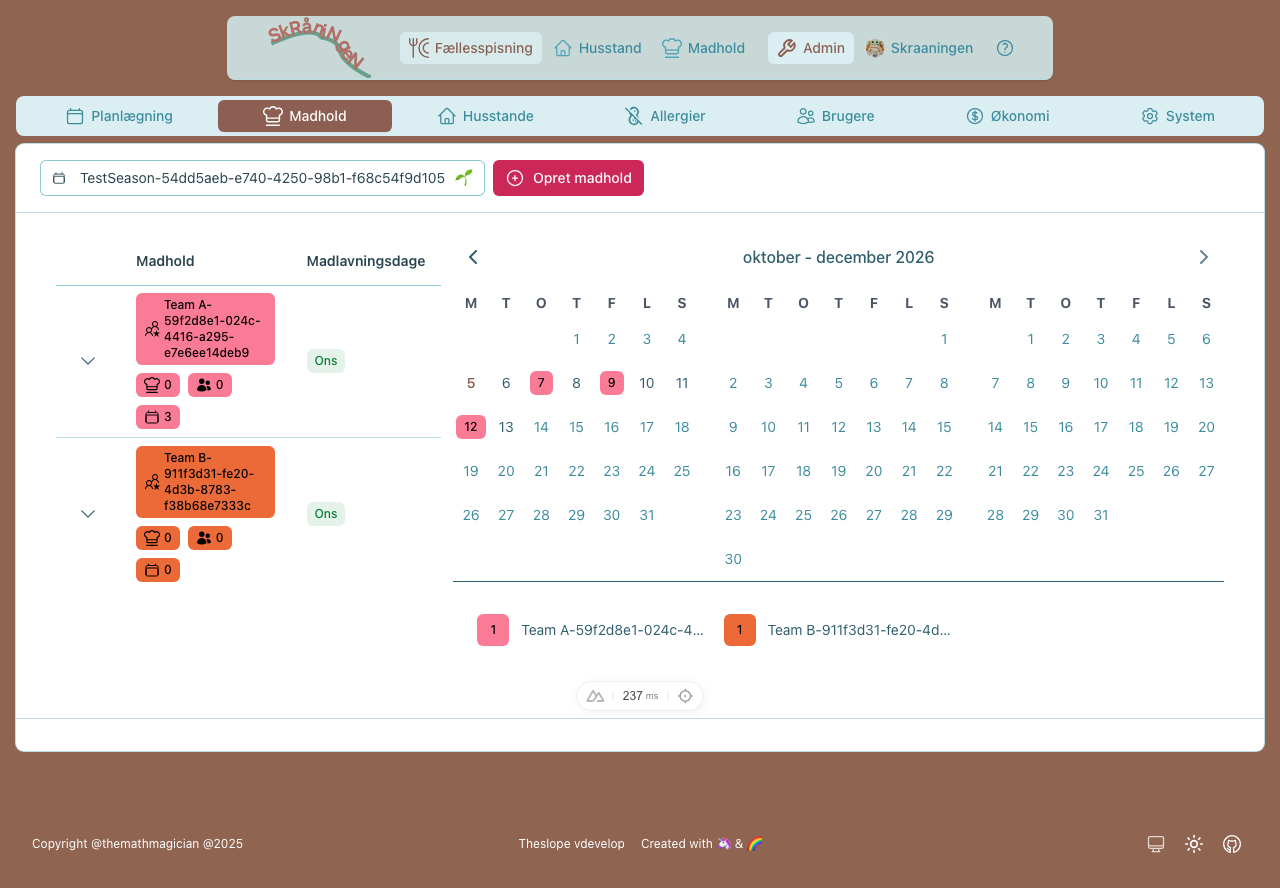
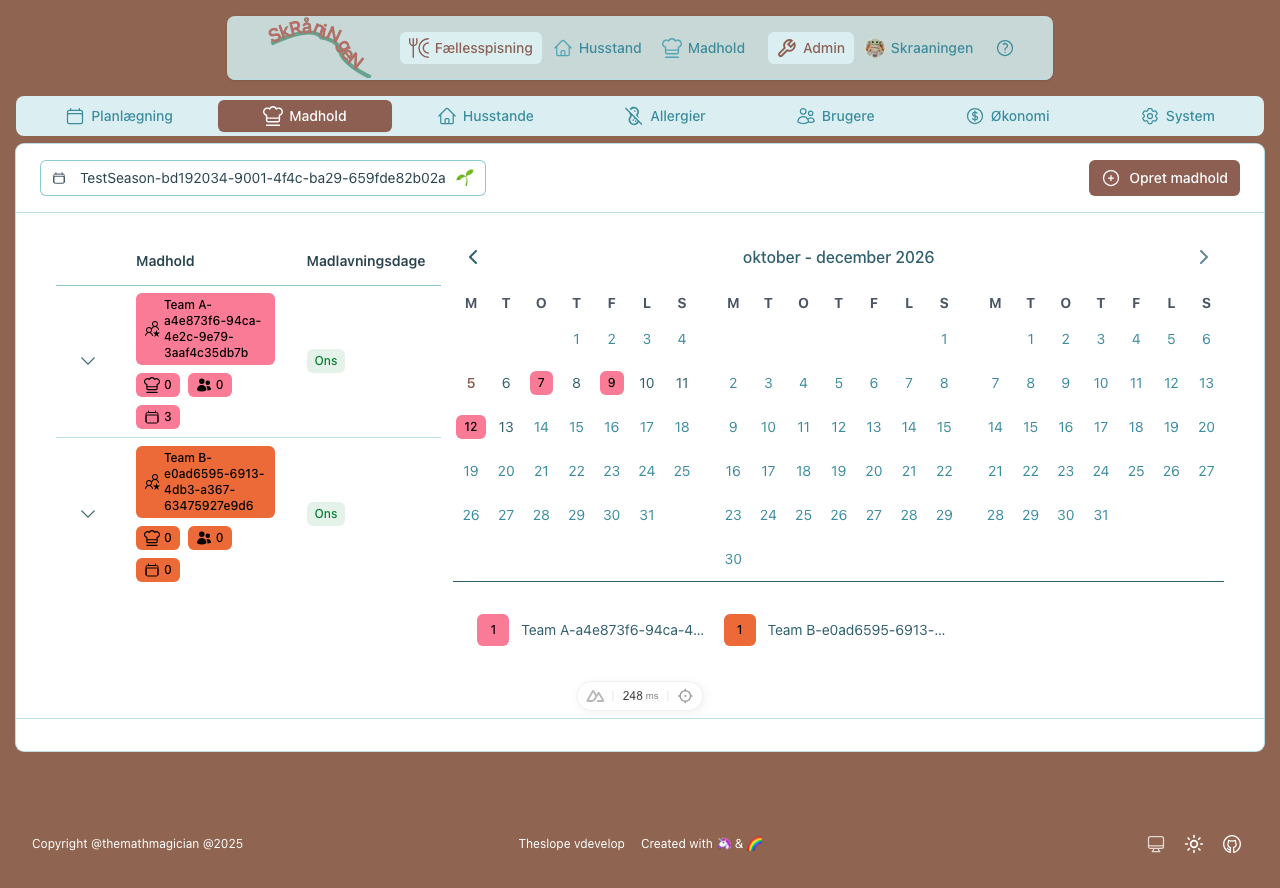
redirect on login handled in plugin

diff --git a/tests/component/composables/useApiHandler.nuxt.spec.ts b/tests/component/composables/useApiHandler.nuxt.spec.ts
@@ -1,7 +1,7 @@
 import { describe, it, expect, vi, beforeEach, beforeAll } from 'vitest'
 import { mockNuxtImport } from '@nuxt/test-utils/runtime'
 import { ref } from 'vue'
-import { useApiHandler } from '~/composables/useApiHandler'
+import { useApiHandler, resolveUncaughtApiError } from '~/composables/useApiHandler'
 
 // Mock the useToast composable (mockNuxtImport replaces the one auto-import; a #imports module mock breaks the runtime boot)
 mockNuxtImport('useToast', () => () => ({
@@ -43,5 +43,30 @@ describe('useApiHandler', () => {
 
         expect(state.value).toBe('error')
         expect(mockAction).toHaveBeenCalledTimes(1)
+    })
+
+    describe('resolveUncaughtApiError (the error floor of plugins/apiErrors.client.ts)', () => {
+        const page = {path: '/admin/teams', fullPath: '/admin/teams?mode=create&team=5'}
+        const actions = {login: vi.fn(), toast: vi.fn()}
+
+        it.each([
+            {error: {statusCode: 401}, route: page, expectedCall: () => expect(actions.login).toHaveBeenCalledWith(page.fullPath), description: 'a dead session re-authenticates with a return path'},
+            {error: {status: 401}, route: page, expectedCall: () => expect(actions.login).toHaveBeenCalledWith(page.fullPath), description: 'FetchError status spelling counts as 401'},
+            {error: {statusCode: 500}, route: page, expectedCall: () => expect(actions.toast).toHaveBeenCalledWith({statusCode: 500}), description: 'any other API error surfaces as the standard toast'}
+        ])('$description', ({error, route, expectedCall}) => {
+            const handler = resolveUncaughtApiError(error, route, actions)
+            expect(handler).toBeTypeOf('function')
+            handler!()
+            expectedCall()
+        })
+
+        it.each([
+            {error: {statusCode: 401}, route: {path: '/login', fullPath: '/login'}, description: 'the login page keeps its own 401s'},
+            {error: new Error('not an api error'), route: page, description: 'non-API errors are not this floor\'s to handle'}
+        ])('$description', ({error, route}) => {
+            expect(resolveUncaughtApiError(error, route, actions)).toBeNull()
+            expect(actions.login).not.toHaveBeenCalled()
+            expect(actions.toast).not.toHaveBeenCalled()
+        })
     })
 })

diff --git a/app/stores/plan.ts b/app/stores/plan.ts
@@ -386,28 +386,32 @@ export const usePlanStore = defineStore("Plan", () => {
         const createTeam = async (teamOrTeams: CookingTeamCreate | CookingTeamCreate[]): Promise<CreateTeamsResponse> => {
             const teams = Array.isArray(teamOrTeams) ? teamOrTeams : [teamOrTeams]
 
-            // ADR-009 operation result: teams created + dinner events the assignment touched
-            const response = await $fetch('/api/admin/team', {
-                method: 'PUT',
-                body: teams,
-                headers: {'Content-Type': 'application/json'}
-            })
-            createTeamData.value = CreateTeamsResponseSchema.parse(response)
+            try {
+                // ADR-009 operation result: teams created + dinner events the assignment touched
+                const response = await $fetch('/api/admin/team', {
+                    method: 'PUT',
+                    body: teams,
+                    headers: {'Content-Type': 'application/json'}
+                })
+                createTeamData.value = CreateTeamsResponseSchema.parse(response)
 
-            await executeCreateTeam()
+                await executeCreateTeam()
 
-            if (createTeamError.value) {
-                handleApiError(createTeamError.value, 'createTeam')
-                throw createTeamError.value
+                if (createTeamError.value) {
+                    throw createTeamError.value
+                }
+
+                console.info(`👥 > PLAN_STORE > Created ${createTeamData.value.teams.length} team(s), assigned ${createTeamData.value.eventsAssigned} dinner event(s)`)
+
+                if (selectedSeasonId.value) {
+                    await refreshSelectedSeason()
+                }
+
+                return createTeamData.value
+            } catch (e: unknown) {
+                handleApiError(e, 'createTeam')
+                throw e
             }
-
-            console.info(`👥 > PLAN_STORE > Created ${createTeamData.value.teams.length} team(s), assigned ${createTeamData.value.eventsAssigned} dinner event(s)`)
-
-            if (selectedSeasonId.value) {
-                await refreshSelectedSeason()
-            }
-
-            return createTeamData.value
         }
 
         const updateTeam = async (team: CookingTeamUpdate) => {

diff --git a/app/components/admin/AdminTeams.vue b/app/components/admin/AdminTeams.vue
@@ -306,7 +306,7 @@ interface TableRow {
   original: CookingTeamDisplay
 }
 
-const {ICONS, SIZES, BUTTONS, ALERTS, COLOR, COMPONENTS, getRainbowAccent} = useTheSlopeDesignSystem()
+const {ICONS, SIZES, BUTTONS, ALERTS, COLOR, COMPONENTS, LAYOUTS, getRainbowAccent} = useTheSlopeDesignSystem()
 
 const columns = [
   {
@@ -344,28 +344,27 @@ const columns = [
       class="w-full px-0"
   >
     <template #header>
-      <div class="flex flex-col md:flex-row items-center justify-between w-full gap-4">
-        <div class="w-full md:w-auto flex flex-row items-center gap-2">
-          <SeasonSelector
-              :model-value="selectedSeasonId"
-              :seasons="seasons"
-              :loading="isSeasonsLoading"
-              class="w-full md:w-auto"
-              :disabled="disabledModes.includes(FORM_MODES.CREATE)"
-              @update:model-value="handleSeasonChange"
-          />
-          <UButton
-              v-if="props.canEdit && !isNoSeasons"
-              v-bind="BUTTONS.primaryAction"
-              :color="COLOR.secondary"
-              :icon="ICONS.plusCircle"
-              data-testid="create-team"
-              :disabled="disabledModes.includes(FORM_MODES.CREATE)"
-              @click="onModeChange(FORM_MODES.CREATE)"
-          >
-            Opret madhold
-          </UButton>
-        </div>
+      <div :class="LAYOUTS.cardHeaderRow">
+        <SeasonSelector
+            :model-value="selectedSeasonId"
+            :seasons="seasons"
+            :loading="isSeasonsLoading"
+            class="w-full md:w-auto"
+            :disabled="disabledModes.includes(FORM_MODES.CREATE)"
+            @update:model-value="handleSeasonChange"
+        />
+        <UButton
+            v-if="props.canEdit && !isNoSeasons"
+            v-bind="BUTTONS.primaryAction"
+            :class="LAYOUTS.cardActionButton"
+            :color="COLOR.primary"
+            :icon="ICONS.plusCircle"
+            data-testid="create-team"
+            :disabled="disabledModes.includes(FORM_MODES.CREATE)"
+            @click="onModeChange(FORM_MODES.CREATE)"
+        >
+          Opret madhold
+        </UButton>
       </div>
     </template>
 

diff --git a/tests/e2e/ui/AdminTeams.e2e.spec.ts b/tests/e2e/ui/AdminTeams.e2e.spec.ts
@@ -110,6 +110,25 @@ test.describe('AdminTeams Form UI', () => {
                 expect(teams[1]!.name).toContain('Madhold 2')
                 expect(teams[1]!.name).toContain(season.shortName)
             })
+
+        test('GIVEN an expired session WHEN submitting THEN the user lands on login with a return path',
+            async ({page, browser}) => {
+                const context = await validatedBrowserContext(browser)
+                const season = await SeasonFactory.createSeason(context)
+                createdSeasonIds.push(season.id!)
+
+                await page.goto(`${adminTeamsUrl}?mode=create&season=${season.shortName}`)
+                await expect(page.locator('input#team-count')).toBeVisible({timeout: 10000})
+
+                // WHEN: the session dies before the save
+                await page.context().clearCookies()
+                await page.locator('input#team-count').fill('2')
+                await page.getByTestId('submit-create-teams').click()
+
+                // THEN: the error floor re-authenticates with the page as the return path
+                await expect(page).toHaveURL(/\/login\?redirect=/)
+                expect(decodeURIComponent(page.url())).toContain('/admin/teams')
+            })
     })
 
     test.describe('Edit Mode', () => {

diff --git a/app/composables/useApiHandler.ts b/app/composables/useApiHandler.ts
@@ -5,6 +5,32 @@ const isApiError = (error: unknown): error is ApiError => {
     return 'statusCode' in error || 'status' in error
 }
 
+export type UncaughtApiErrorHandler = () => void
+
+export interface UncaughtApiErrorActions {
+    login: (redirect: string) => void
+    toast: (error: unknown) => void
+}
+
+/**
+ * The application's error floor (plugins/apiErrors.client.ts): picks the handler an uncaught
+ * error gets. A dead session re-authenticates and returns in place (the login page follows
+ * ?redirect, and its own 401s stay put), any other API error surfaces as the standard toast;
+ * an error that is not an API response is not this floor's to handle (null).
+ */
+export const resolveUncaughtApiError = (
+    error: unknown,
+    route: {path: string, fullPath: string},
+    actions: UncaughtApiErrorActions
+): UncaughtApiErrorHandler | null => {
+    if (!isApiError(error)) return null
+    const statusCode = error.statusCode ?? (error as Record<string, unknown>).status
+    if (statusCode === 401) {
+        return route.path === '/login' ? null : () => actions.login(route.fullPath)
+    }
+    return () => actions.toast(error)
+}
+
 export const useApiHandler = () => {
     // Capture toast and route references during setup context
     const toast = useToast()

diff --git a/app/plugins/apiErrors.client.ts b/app/plugins/apiErrors.client.ts
@@ -1,0 +1,28 @@
+import {resolveUncaughtApiError, useApiHandler, type UncaughtApiErrorActions} from '~/composables/useApiHandler'
+
+/**
+ * The application's error floor: no API failure is ever silent. Uncaught rejections and
+ * errors escaping component handlers funnel into resolveUncaughtApiError, which hands back
+ * the handler to run - re-login for a dead session, the standard toast for the rest.
+ * Stores keep their own catch + toast; this floor owns what escapes them.
+ */
+export default defineNuxtPlugin((nuxtApp) => {
+    const actions: UncaughtApiErrorActions = {
+        login: (redirect) => void nuxtApp.runWithContext(() => navigateTo({path: '/login', query: {redirect}})),
+        toast: (error) => void nuxtApp.runWithContext(() => useApiHandler().handleApiError(error, 'uncaught'))
+    }
+
+    const handle = (error: unknown): boolean => {
+        const handler = resolveUncaughtApiError(error, useRouter().currentRoute.value, actions)
+        if (!handler) return false
+        handler()
+        return true
+    }
+
+    window.addEventListener('unhandledrejection', (event) => {
+        if (handle(event.reason)) event.preventDefault()
+    })
+    nuxtApp.hook('vue:error', (error) => {
+        handle(error)
+    })
+})

diff --git a/app/composables/useTheSlopeDesignSystem.ts b/app/composables/useTheSlopeDesignSystem.ts
@@ -451,6 +451,10 @@ export const LAYOUTS = {
     cardActionRow: 'flex flex-col md:flex-row md:flex-wrap md:items-center gap-2',
     cardActionButton: 'w-full md:w-auto justify-center',
 
+    // Card header row: content (selector, title) left, the rare action in the right corner -
+    // the admin pages' shared header shape. Stacked with full-width children on a phone.
+    cardHeaderRow: 'flex flex-col md:flex-row md:items-center md:justify-between gap-2',
+
     // Section content (card body sections)
     sectionContent: 'px-4 md:px-6 py-4 md:py-6 space-y-4',           // Standard section with padding
     sectionContentNoPadX: 'px-0 py-4 md:py-6 space-y-4',             // No horizontal padding (full-bleed)

diff --git a/app/components/admin/AdminPlanning.vue b/app/components/admin/AdminPlanning.vue
@@ -155,7 +155,7 @@ const handleDeactivateSeason = async () => {
       class="w-full px-0"
   >
     <template #header>
-      <div :class="LAYOUTS.cardActionRow">
+      <div :class="LAYOUTS.cardHeaderRow">
         <SeasonSelector
             :model-value="selectedSeasonId"
             :seasons="seasons"

diff --git a/docs/adr-compliance-frontend.md b/docs/adr-compliance-frontend.md
@@ -51,7 +51,7 @@
 
 | Component | Used By Routes | Stores Used | Composables | ADR-001 Types | ADR-010 Domain | Component Tests | E2E Tests | Status |
 |-----------|----------------|-------------|-------------|---------------|----------------|-----------------|-----------|--------|
-| `AdminPlanning.vue` | `/admin/planning` | `usePlanStore()` | `useEntityFormManager()`, `useSeasonValidation()`, `useTheSlopeDesignSystem()` | ✅ | ✅ | ✅ 7 tests | ✅ Full | **✅ COMPLIANT** — Card header is `LAYOUTS.cardActionRow` with `SeasonSelector` + `create-season` (`BUTTONS.primaryAction` + `ICONS.plusCircle`); `AdminPlanningSeason` `@edit` drives `?mode=edit` through `useEntityFormManager` (ADR-006/ADR-008); the save toast reports the `SeasonUpdateResponse` counts |
+| `AdminPlanning.vue` | `/admin/planning` | `usePlanStore()` | `useEntityFormManager()`, `useSeasonValidation()`, `useTheSlopeDesignSystem()` | ✅ | ✅ | ✅ 7 tests | ✅ Full | **✅ COMPLIANT** — Card header is `LAYOUTS.cardHeaderRow` - `SeasonSelector` left, `create-season` in the right corner (the admin pages' shared shape) (`BUTTONS.primaryAction` + `ICONS.plusCircle`); `AdminPlanningSeason` `@edit` drives `?mode=edit` through `useEntityFormManager` (ADR-006/ADR-008); the save toast reports the `SeasonUpdateResponse` counts |
 | `AdminPlanningSeason.vue` | `/admin/planning` | `usePlanStore()` (saving state) | `useSeasonValidation()`, `useSeason()`, `useTheSlopeDesignSystem()` | ✅ | ✅ | ✅ 16 tests | ✅ Indirect | **✅ COMPLIANT** — Title carries the season name (view / Rediger / Opret); the header holds the `COMPONENTS.statBox` cooking-day counter (`cooking-day-count`) and, in view mode with `canEdit`, `edit-season` (`BUTTONS.secondaryAction` + `ICONS.edit`, labelled `Rediger {shortName}`); footer `LAYOUTS.formButtonRow` with `BUTTONS.cancel` / `BUTTONS.save`; `id="seasonForm"` — colour via DS tokens |
 | `AdminToCreateSeason.vue` | `/admin/planning`, `/admin/teams` | None (prop-driven) | `useTheSlopeDesignSystem()` | ✅ | ✅ | ✅ 2 tests | ❌ | **✅ COMPLIANT** — `canEdit` gates the `create-first-season` CTA (`BUTTONS.primaryAction` + `ICONS.plusCircle`); both hosts pass `:can-edit` |
 | `TicketPriceListEditor.vue` | `/admin/planning` | Parent props | `useTicketPriceValidation()`, `useTheSlopeDesignSystem()` | ✅ | ✅ | ✅ 4 tests | ✅ Indirect | **✅ COMPLIANT** — `BUTTONS.secondaryAction` + `ICONS.ticket` add, `BUTTONS.edit` + `ICONS.trash` row remove; testids `ticket-price-add` / `ticket-price-remove-${i}` — colour via DS tokens |
@@ -60,7 +60,7 @@
 
 | Component | Used By Routes | Stores Used | Composables | ADR-001 Types | ADR-010 Domain | Component Tests | E2E Tests | Status |
 |-----------|----------------|-------------|-------------|---------------|----------------|-----------------|-----------|--------|
-| `AdminTeams.vue` | `/admin/teams` | `usePlanStore()`, `useHouseholdsStore()` | `useEntityFormManager()`, `useCookingTeam()`, `useQueryParam()`, `useTheSlopeDesignSystem()` | ✅ | ✅ | ⚠ 1 test | ✅ Full | **⚠ PARTIAL UNIT** — ONE master table in every mode (compact names via `getTeamShortName`, `CookingTeamBadges` rows); selection is the open state in `?team=`: the master is constant (md 1/3, both columns in every state) and only the region beside it swaps - the all-teams calendar with no selection (the overview), the framed detail when a row is open; the toggle chevron turns toward the open detail (`team-toggle-<id>`: down closed, up folds the phone dock, right points into the md+ pane) and the row click (`team-row-<id>`) toggles the same way; the open row wears `getRainbowAccent`, the detail mounts in `COMPONENTS.masterDetail` frames (pane md 2/3, rendered only from md via `isMd` so its testids exist once; dock with sticky `dockHeader`, `dockClamp` + `dockBody` so a wide detail scrolls in its own box and never widens the master table); a background season refresh keeps the page mounted (`showAdminTeams` checks data presence) and the card refetches its detail in place; the detail face rides in `?mode=` (`edit-team` pencil / `back-to-view`), deselect-while-editing returns to view with sequential awaited URL writes (the mode and team keys never resurrect each other's stale value); the header carries `create-team` beside the `SeasonSelector`; the table `#empty` slot keeps `create-new-team`; the create face submits via `submit-create-teams`; create toast reports the `CreateTeamsResponse` counts, `AdminTeams.nuxt.spec.ts` reads it from `useToast().toasts`; `?team=` bleeds to other tabs (parked); `admin-teams-edit` screenshot in `AdminTeams.e2e.spec.ts`, every immediate save asserts `expectMode`, the row-click test asserts select, switch and deselect — colour via DS tokens |
+| `AdminTeams.vue` | `/admin/teams` | `usePlanStore()`, `useHouseholdsStore()` | `useEntityFormManager()`, `useCookingTeam()`, `useQueryParam()`, `useTheSlopeDesignSystem()` | ✅ | ✅ | ⚠ 1 test | ✅ Full | **⚠ PARTIAL UNIT** — ONE master table in every mode (compact names via `getTeamShortName`, `CookingTeamBadges` rows); selection is the open state in `?team=`: the master is constant (md 1/3, both columns in every state) and only the region beside it swaps - the all-teams calendar with no selection (the overview), the framed detail when a row is open; the toggle chevron turns toward the open detail (`team-toggle-<id>`: down closed, up folds the phone dock, right points into the md+ pane) and the row click (`team-row-<id>`) toggles the same way; the open row wears `getRainbowAccent`, the detail mounts in `COMPONENTS.masterDetail` frames (pane md 2/3, rendered only from md via `isMd` so its testids exist once; dock with sticky `dockHeader`, `dockClamp` + `dockBody` so a wide detail scrolls in its own box and never widens the master table); a background season refresh keeps the page mounted (`showAdminTeams` checks data presence) and the card refetches its detail in place; the detail face rides in `?mode=` (`edit-team` pencil / `back-to-view`), deselect-while-editing returns to view with sequential awaited URL writes (the mode and team keys never resurrect each other's stale value); the header is `LAYOUTS.cardHeaderRow` - `SeasonSelector` left, `create-team` in the right corner; the table `#empty` slot keeps `create-new-team`; the create face submits via `submit-create-teams`; create toast reports the `CreateTeamsResponse` counts, `AdminTeams.nuxt.spec.ts` reads it from `useToast().toasts`; `?team=` bleeds to other tabs (parked); `admin-teams-edit` screenshot in `AdminTeams.e2e.spec.ts`, every immediate save asserts `expectMode`, the row-click test asserts select, switch and deselect — colour via DS tokens |
 | `CookingTeamCard.vue` | `/admin/teams`, `/chef`, `/dinner` | `usePlanStore()`, `useHouseholdsStore()` | `useCookingTeam()`, `useTheSlopeDesignSystem()` | ✅ | ✅ | ❌ | ✅ Indirect | **⚠ MISSING UNIT** — Uses shared InhabitantSelector + TeamMemberAddForm; the monitor, edit and view headers render the `CookingTeamBadges` triple (large; the edit row counts-only via `showName`); another team's status badge binds its own rainbow stop; the frames take the base border colour and the allocation badge is `COLOR.neutral` outline, so colour comes from the design system alone; role glyphs render via `UIcon` from the design system's `ROLE_ICONS` — colour via DS tokens |
 | `TeamMemberAddForm.vue` | `/admin/teams` (via CookingTeamCard) | None | `useCookingTeamValidation()` | ✅ | ✅ | ✅ 13 tests | ✅ Indirect | **✅ COMPLIANT** — the affinity checkboxes take `WeekDayMapDisplay`'s default colour; the role select item icons come from `ROLE_ICONS`; both selects fill the form column (`w-full` - an unsized trigger collapses to the label and truncates in a tight flex) |
 | `MyTeamSelector.vue` | `/chef` | Parent props | `useCookingTeam()`, `useTheSlopeDesignSystem()` | ✅ | ✅ | ❌ | ✅ Indirect | **⚠ MISSING UNIT** — `UTabs` of `CookingTeamBadges` bound to `COMPONENTS.teamTabs`; on a phone the trigger stacks `ICONS.team` over the compact badge (mockup in the component header); the tab items carry no colour; empty state `ALERTS.info` |
@@ -206,7 +206,7 @@
 | `useTabNavigation()` | N/A | N/A | N/A | ✅ Full | **✅ COMPLIANT** - query params (`?pbs`) pass through on tab switches (ADR-006) |
 | `useSeasonSelector()` | N/A | N/A | N/A | ✅ Full | **✅ COMPLIANT** |
 | `useQueryParam()` | N/A | N/A | N/A | ✅ Full | **✅ COMPLIANT** - Generic query param composable for URL state |
-| `useApiHandler()` | N/A | N/A | N/A | ✅ Full | **✅ COMPLIANT** |
+| `useApiHandler()` | N/A | N/A | N/A | ✅ Full | **✅ COMPLIANT** - `handleApiError` is the one toast surface (stores + `Login`, `HouseholdBookings`, public billing); `resolveUncaughtApiError` picks the handler the error floor runs (`plugins/apiErrors.client.ts`: uncaught 401 → `/login?redirect`, other uncaught API errors → the standard toast; e2e: expired-session create in `AdminTeams.e2e.spec.ts`); `apiCall` has no callers and goes with the store-fetcher-factory package (feature-proposal-framework-adoption.md) |
 | `usePermissions()` | N/A | ✅ `SystemRoleSchema` | N/A | ✅ Full | **✅ COMPLIANT** - Isomorphic permission predicates (ADR-017); session-aware `isMemberOfHousehold` lives on the auth store |
 | `useBookingUi()` | N/A | N/A | ✅ Domain types | ✅ Full | **✅ COMPLIANT** - Pure UI composable (ADR-017): deadline badges, `STEP_ICONS`, `formatActionPreview`; never server-imported |
 | `useUserRolesUi()` | N/A | N/A | N/A | ✅ Full | **✅ COMPLIANT** - Pure UI composable (ADR-017): role labels/icons/`visibleRoles` from the auth store |

diff --git a/docs/features/feature-proposal-framework-adoption.md b/docs/features/feature-proposal-framework-adoption.md
@@ -29,6 +29,12 @@ validation composable's schema (ADR-001). Remaining `AsyncDataOptions` (`watch`,
 through. The factory is the blessed shape of the SSR-friendly store pattern (ADR-007); the ADR gains the amendment.
 `createUseAsyncData` (Nuxt 4.4) bakes static defaults only, so the wrapper owns the per-call schema coupling.
 
+The package also closes the error-handling seams the error floor (`plugins/apiErrors.client.ts` +
+`resolveUncaughtApiError`) leaves open: the factory surfaces read-path 401s to the floor, the per-store
+try/catch + `handleApiError` blocks collapse into one mutation wrapper, the caller-less `apiCall` and its
+spec cases are deleted, and an architecture rule fails any bare `$fetch(` under `app/` so the sanctioned
+fetch path is mechanical, not remembered.
+
 **API** ⏳ awaiting signoff
 
 ```ts
